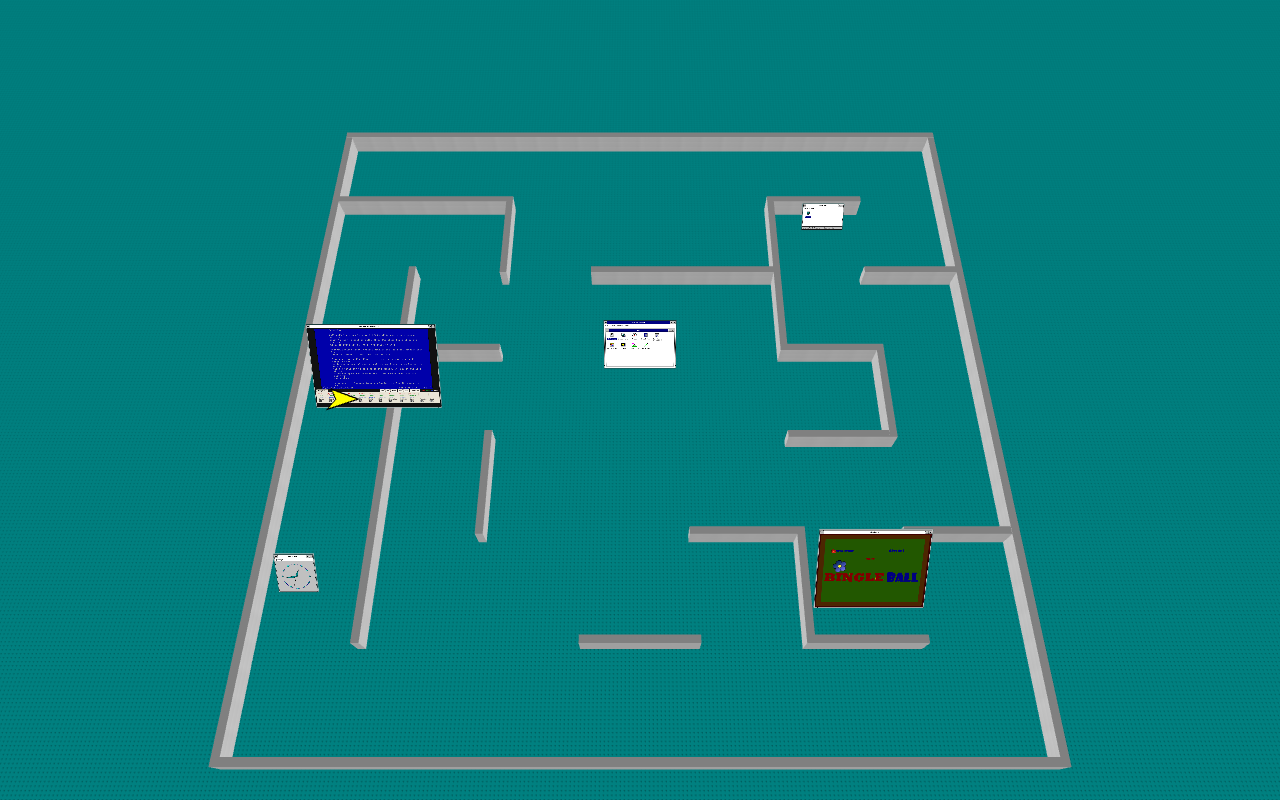
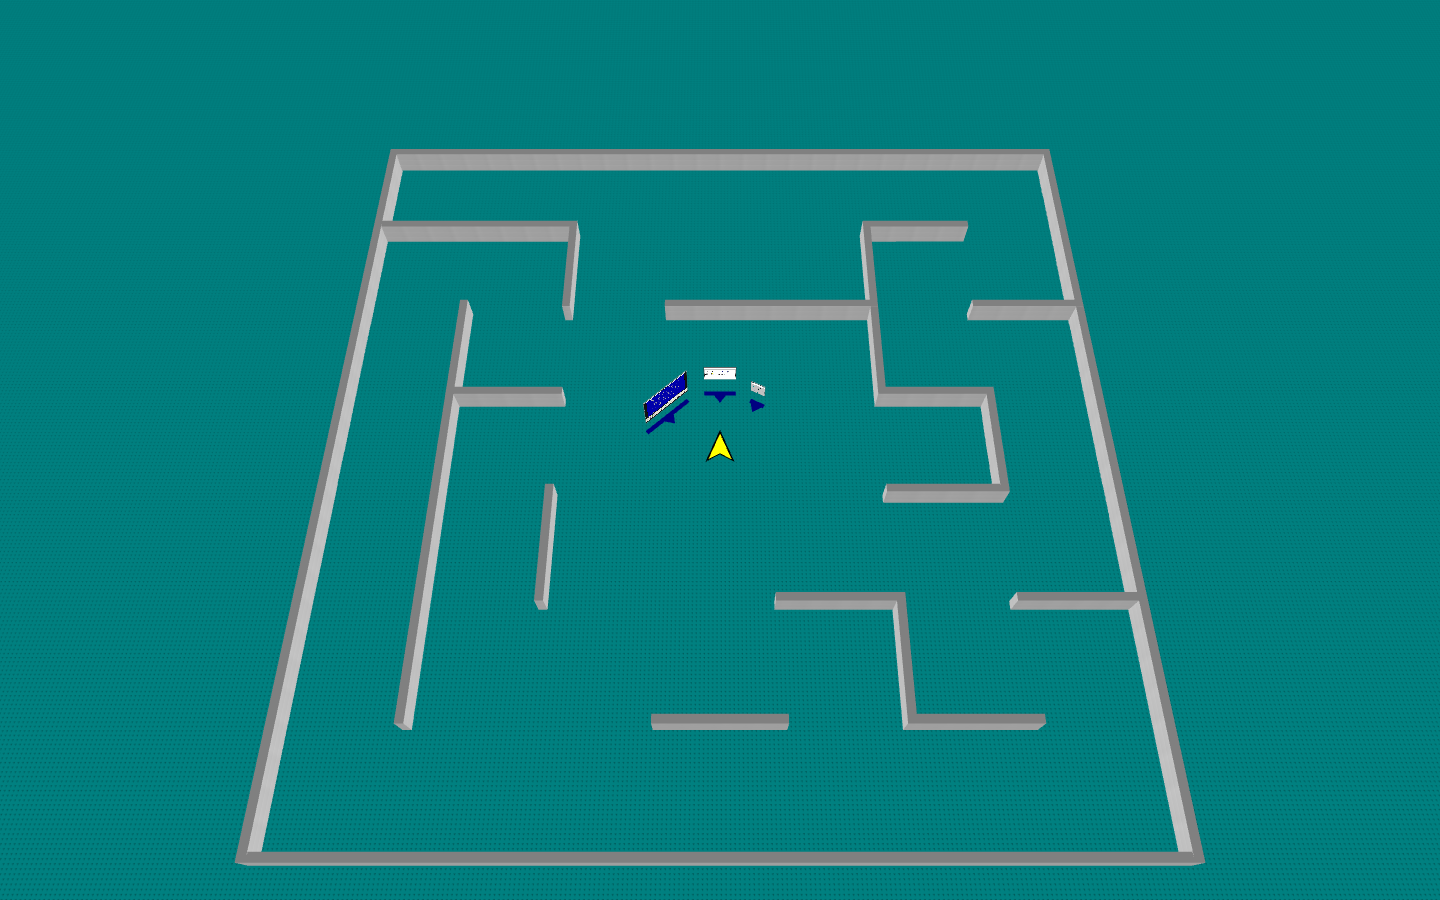
The map shows windows where and how they really stand (TRM-12)
On the map every window used to turn up to face the camera at 2.4 times
its size, so the map lied about which way things faced. Windows now
keep their real pose and size, and each gets a footprint on the floor
with a notch on the side it faces, which reads even edge-on from
above. Clicking near a footprint walks you to that window.

The Welcome text is one line per paragraph, so whatever opens it wraps
it instead of breaking lines that are too long for it.

diff --git a/src/space.js b/src/space.js
@@ -26,8 +26,6 @@ export const CEIL_Y = 760;
 const MAP_PITCH = -1.08;        // how steeply the map looks down
 const MAP_WALLS = 0.28;         // how tall the walls stand in the map, as a share
 const FOG = { near: 2600, far: 17000 };
-export const MAP_GROW = 2.4;    // windows on the map stand this much bigger, turned up to face you
-export const MAP_TILT = -0.75;
 
 const wrap = (a) => Math.atan2(Math.sin(a), Math.cos(a));
 const ease = (t) => t * t * (3 - 2 * t);
@@ -134,7 +132,48 @@ export class Space {
     this.marker.visible = false;
     this.scene.add(this.marker);
 
+    // every window's footprint, on the map: where it stands, how wide, and a
+    // notch on the side it faces, so one seen edge-on from above still reads
+    this.footprints = new THREE.Group();
+    this.footprints.visible = false;
+    this.scene.add(this.footprints);
+    this.footMat = new THREE.MeshBasicMaterial({ color: 0x000080, fog: false, depthTest: false, side: THREE.DoubleSide });
+    const notch = new THREE.Shape();
+    notch.moveTo(-90, 0); notch.lineTo(90, 0); notch.lineTo(0, 130); notch.closePath();
+    this.notchGeo = new THREE.ShapeGeometry(notch).rotateX(Math.PI / 2);
+
     this.scene.fog = new THREE.Fog(0x000000, FOG.near, FOG.far);
+  }
+
+  /** Lay each window's footprint on the floor: [{ x, z, yaw, w }]. */
+  setFootprints(list) {
+    const g = this.footprints;
+    while (g.children.length > list.length) g.remove(g.children[g.children.length - 1]);
+    while (g.children.length < list.length) {
+      const f = new THREE.Group();
+      const bar = new THREE.Mesh(new THREE.PlaneGeometry(1, 70).rotateX(-Math.PI / 2), this.footMat);
+      const tip = new THREE.Mesh(this.notchGeo, this.footMat);
+      tip.position.z = 35;
+      f.add(bar, tip);
+      f.renderOrder = 19;
+      bar.renderOrder = tip.renderOrder = 19;
+      g.add(f);
+    }
+    list.forEach((it, i) => {
+      const f = g.children[i];
+      f.position.set(it.x, FLOOR_Y + 20, it.z);
+      f.rotation.set(0, it.yaw, 0);
+      f.children[0].scale.x = it.w;
+    });
+  }
+
+  /** The point on the floor under the pointer, or null. */
+  pickFloor(clientX, clientY) {
+    const ndc = new THREE.Vector2(clientX / innerWidth * 2 - 1, -(clientY / innerHeight) * 2 + 1);
+    const ray = new THREE.Raycaster();
+    ray.setFromCamera(ndc, this.camera);
+    const hit = new THREE.Vector3();
+    return ray.ray.intersectPlane(new THREE.Plane(new THREE.Vector3(0, 1, 0), -FLOOR_Y), hit) ? hit : null;
   }
 
   /** { color, pattern, walls } */
@@ -264,6 +303,7 @@ export class Space {
     this.marker.position.x = p.x; this.marker.position.z = p.z;
     this.marker.rotation.y = p.yaw;
     this.marker.scale.setScalar(Math.max(0.01, e));
+    this.footprints.visible = e > 0.02;
     this.scene.fog.near = FOG.near + e * 60000; this.scene.fog.far = FOG.far + e * 90000;
   }
 

diff --git a/src/fs.js b/src/fs.js
@@ -141,23 +141,17 @@ export async function freeName(dir, name) {
 export async function seed() {
   for (const r of ROOTS) await mkdir(r);
   if (localStorage.getItem('terrarium.seeded')) return;
+  // one line per paragraph: whatever opens it does the wrapping
   await write('/Documents/Welcome.txt', [
     'Terrarium',
     '',
-    'Walk with the arrow keys or W A S D; Alt+arrows step sideways. Drag the',
-    'floor to turn, scroll to walk. Click the floor first if an app has the',
-    'keys, or press Esc in one of the built-in ones.',
+    'Walk with the arrow keys or W A S D; Alt+arrows step sideways. Drag the floor to turn, scroll to walk. Click the floor first if an app has the keys, or press Esc in one of the built-in ones.',
     '',
-    'Program Manager starts things: double-click an icon. Double-click the',
-    'floor, or press Ctrl+Esc, for the Task List.',
+    'Program Manager starts things: double-click an icon. Double-click the floor, or press Ctrl+Esc, for the Task List.',
     '',
-    'Drag a window by its title bar, or by its border to size it. Scroll on the',
-    'title bar to push it away or pull it near; right-drag the bar to turn it.',
-    'Click a title bar to walk up to its window. The box at the left of the',
-    'title bar opens the control menu; Turn Around shows the back, which you',
-    'can write on.',
+    'Drag a window by its title bar, or by its border to size it. Scroll on the title bar to push it away or pull it near; right-drag the bar to turn it. Click a title bar to walk up to its window. The box at the left of the title bar opens the control menu; Turn Around shows the back, which you can write on.',
     '',
-    'Step Back, in Program Manager\'s Window menu (or O), shows the map.',
+    'Step Back, in Program Manager\'s Window menu (or O), shows the map. Click a window or the mark under it to walk there.',
     '',
     'Files dropped onto the floor land in c:\\documents.',
   ].join('\n'));

diff --git a/src/window.js b/src/window.js
@@ -7,7 +7,6 @@ import { Vector3, Quaternion } from 'three';
 import { CSS3DObject } from 'three/addons/renderers/CSS3DRenderer.js';
 import { GLYPH } from './icons.js';
 import { popup, closeMenus, menuBar, offsetIn, openMenu } from './menu.js';
-import { MAP_GROW, MAP_TILT } from './space.js';
 
 const wrap = (a) => Math.atan2(Math.sin(a), Math.cos(a));
 const UP = new Vector3(0, 1, 0);
@@ -383,14 +382,7 @@ export class Win {
     this.obj.position.set(c.x, c.y, c.z);
     this.obj.scale.setScalar(c.scale);
     if (c.local) this.obj.quaternion.copy(cam.quaternion).multiply(new Quaternion().setFromAxisAngle(UP, c.turn + c.flip));
-    else if (sp.mapness > 0 && !this.maximized) {
-      // on the map every window turns up to face you, bigger, so you can see them all and pick one
-      const m = sp.mapness, grow = 1 + (MAP_GROW - 1) * m;
-      yaw = wrap(yaw - wrap(c.yaw) * m);
-      this.obj.scale.setScalar(c.scale * grow);
-      this.obj.position.y = c.y + m * (this.h * (grow - 1) / 2 + 120);
-      this.obj.rotation.set(MAP_TILT * m, yaw, 0, 'YXZ');
-    } else this.obj.rotation.set(0, yaw, 0, 'YXZ');
+    else this.obj.rotation.set(0, yaw, 0, 'YXZ');
 
     // CSS backface culling is not dependable through these transforms: show
     // the face that points at the camera and hide the other

diff --git a/src/shell.js b/src/shell.js
@@ -188,6 +188,22 @@ export class Shell {
   }
 
   /** Go and stand square in front of a window, where it's sharp. */
+  /** Windows standing in the maze: not minimized, not maximized. */
+  inMaze() { return this.wins.filter(w => w.cur && !w.minimized && !w.maximized); }
+
+  /** The window whose footprint is nearest a floor point, if one is close. */
+  windowAt(pt, reach = 260) {
+    let best = null, bd = reach;
+    for (const w of this.inMaze()) {
+      const ux = Math.cos(w.cur.yaw), uz = -Math.sin(w.cur.yaw);
+      const dx = pt.x - w.cur.x, dz = pt.z - w.cur.z;
+      const along = Math.max(-w.w / 2, Math.min(w.w / 2, dx * ux + dz * uz));
+      const d = Math.hypot(dx - ux * along, dz - uz * along);
+      if (d < bd) { bd = d; best = w; }
+    }
+    return best;
+  }
+
   bring(w) {
     if (w.minimized) return this.restore(w);
     this.focus(w);
@@ -375,6 +391,7 @@ export class Shell {
 
     sp.update(dt);
     for (const w of this.wins) w.update(dt, w.target(icons.indexOf(w)));
+    if (sp.mapness > 0) sp.setFootprints(this.inMaze().map(w => ({ x: w.cur.x, z: w.cur.z, yaw: w.cur.yaw, w: w.w })));
     for (const d of this.dialogs) d.update(dt, d.target());
   }
 

diff --git a/src/main.js b/src/main.js
@@ -28,6 +28,7 @@ function hiddenBehindWall(e) {
 }
 
 function grabWorld(e) {
+  const ev0 = e;
   const sx = e.clientX, yaw0 = space.player.yaw;
   let moved = false;
   document.body.classList.add('panning');
@@ -42,7 +43,11 @@ function grabWorld(e) {
   const up = () => {
     removeEventListener('pointermove', move); removeEventListener('pointerup', up);
     document.body.classList.remove('panning');
-    if (!moved && space.overTarget) shell.setOverview(false);
+    if (!moved && space.overTarget) {
+      // on the map, a click near a window's footprint goes to it
+      const pt = space.pickFloor(ev0.clientX, ev0.clientY), w = pt && shell.windowAt(pt);
+      if (w) shell.shieldClick(w); else shell.setOverview(false);
+    }
     shell.saveLayout();
   };
   addEventListener('pointermove', move); addEventListener('pointerup', up);

diff --git a/README.md b/README.md
@@ -29,7 +29,7 @@ one (Program Manager, File Manager, Control Panel, Clock).
 | drag the floor | turn |
 | scroll on the floor | walk forward, back |
 | click a title bar | walk up to that window and stand square in front of it |
-| O, or Window ▸ Step Back | the map; click a window there to walk to it; O or Esc to come down |
+| O, or Window ▸ Step Back | the map, with every window where it really stands and a mark on the floor for the way it faces; click a window or its mark to walk to it; O or Esc to come down |
 
 Walls stop you; windows you walk into get knocked out of the way. Any
 movement key stops a walk that's taking you somewhere.
@@ -77,7 +77,7 @@ with its ring standing in the starting room.
 wall sizes, how many walls are knocked out for loops, the starting room
 and how many other rooms. The same seed gives the same maze on every
 visit. Walking speeds are `MOVE` in `src/player.js`; the map's angle, how
-far its walls sink and how much its windows grow are at the top of
+and how far its walls sink are at the top of
 `src/space.js`.
 
 ![Round a corner](shots/maze-corner.png)
